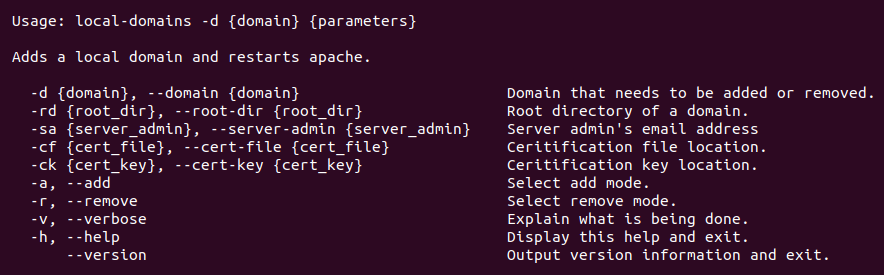
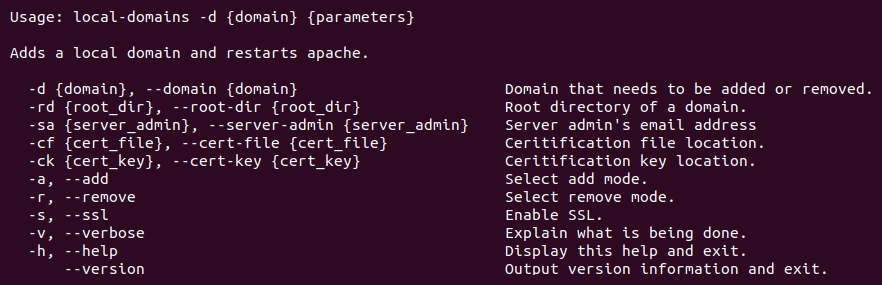
Missing SSL parameter added & readme update.

Changed region(s): [[0.0306, 0.2909, 0.9796, 0.96], [0.0, 0.0291, 0.4898, 0.1164], [0.0, 0.1455, 0.4286, 0.2327]]

diff --git a/README.md b/README.md
@@ -44,7 +44,14 @@ bash ./local-domains.sh -d www.my-cool-server.test -rd /var/www/html/my-cool-ser
 
 Apache configuration files and domain will be removed, but the directory **/var/www/html/my-cool-server** will remain unaffected.
 
+## Parameters
+
+
+
 ## Notes
+
+- Enabling SSL is easy, just pass the **-s** or **--ssl** parameter when adding a domain
+- Removing a domain will not remove the files from the specified root directory, you will have to do that manually
 
 If you plan to use this script everyday, you should probably create an alias.
 
@@ -59,3 +66,5 @@ alias local-domains="/path/to/your/folder/local-domains.sh"
 ```bash
 echo alias local-domains="/path/to/your/folder/local-domains.sh" >> ~/.bash_aliases
 ```
+
+If you have any questions, please don't hessitate to contact me.
